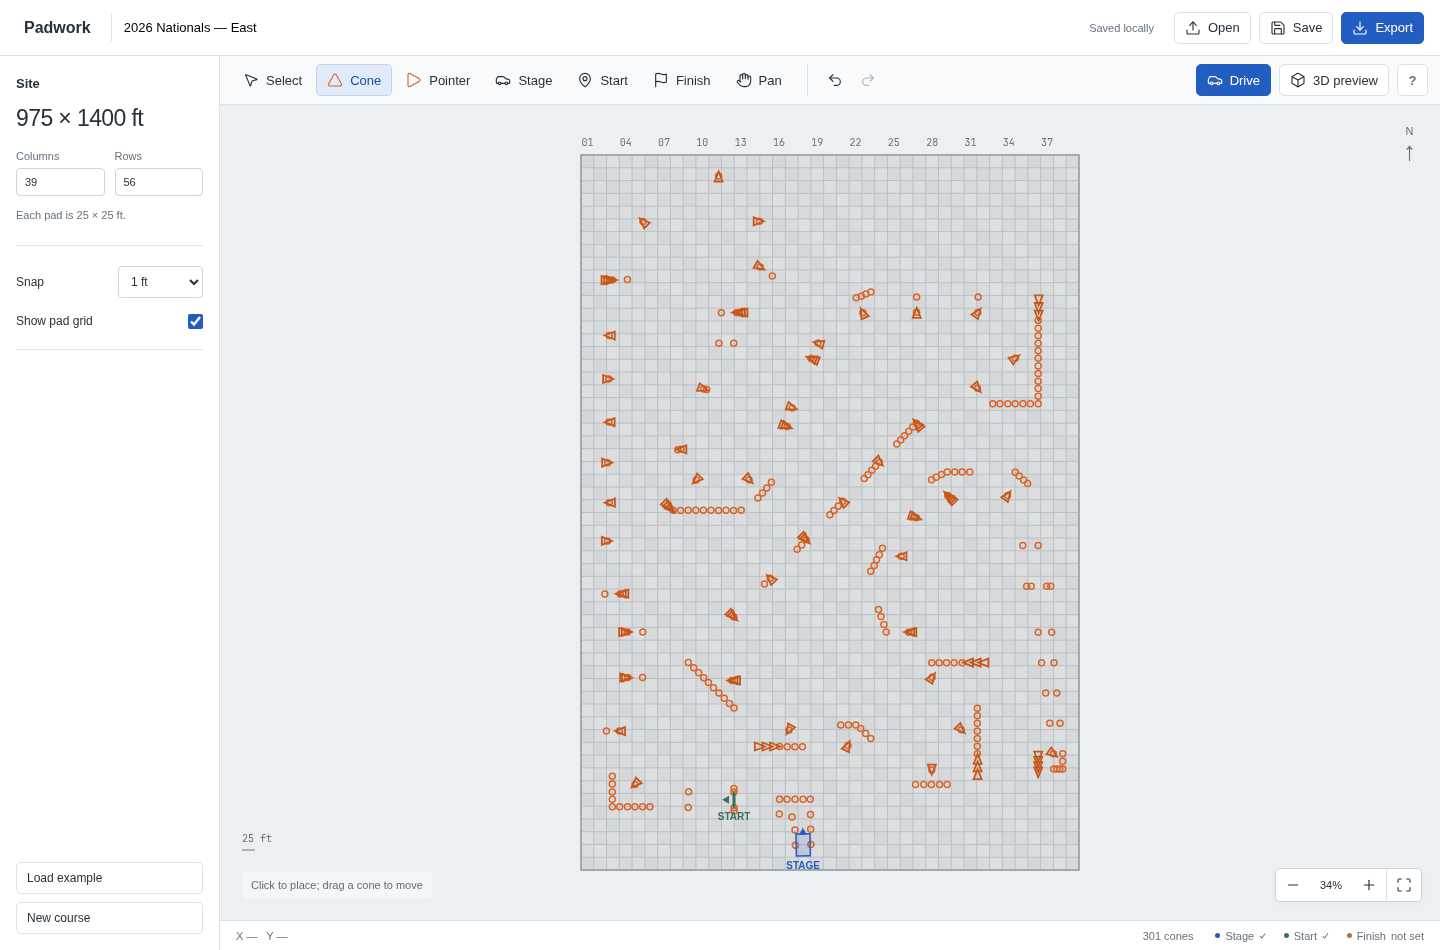
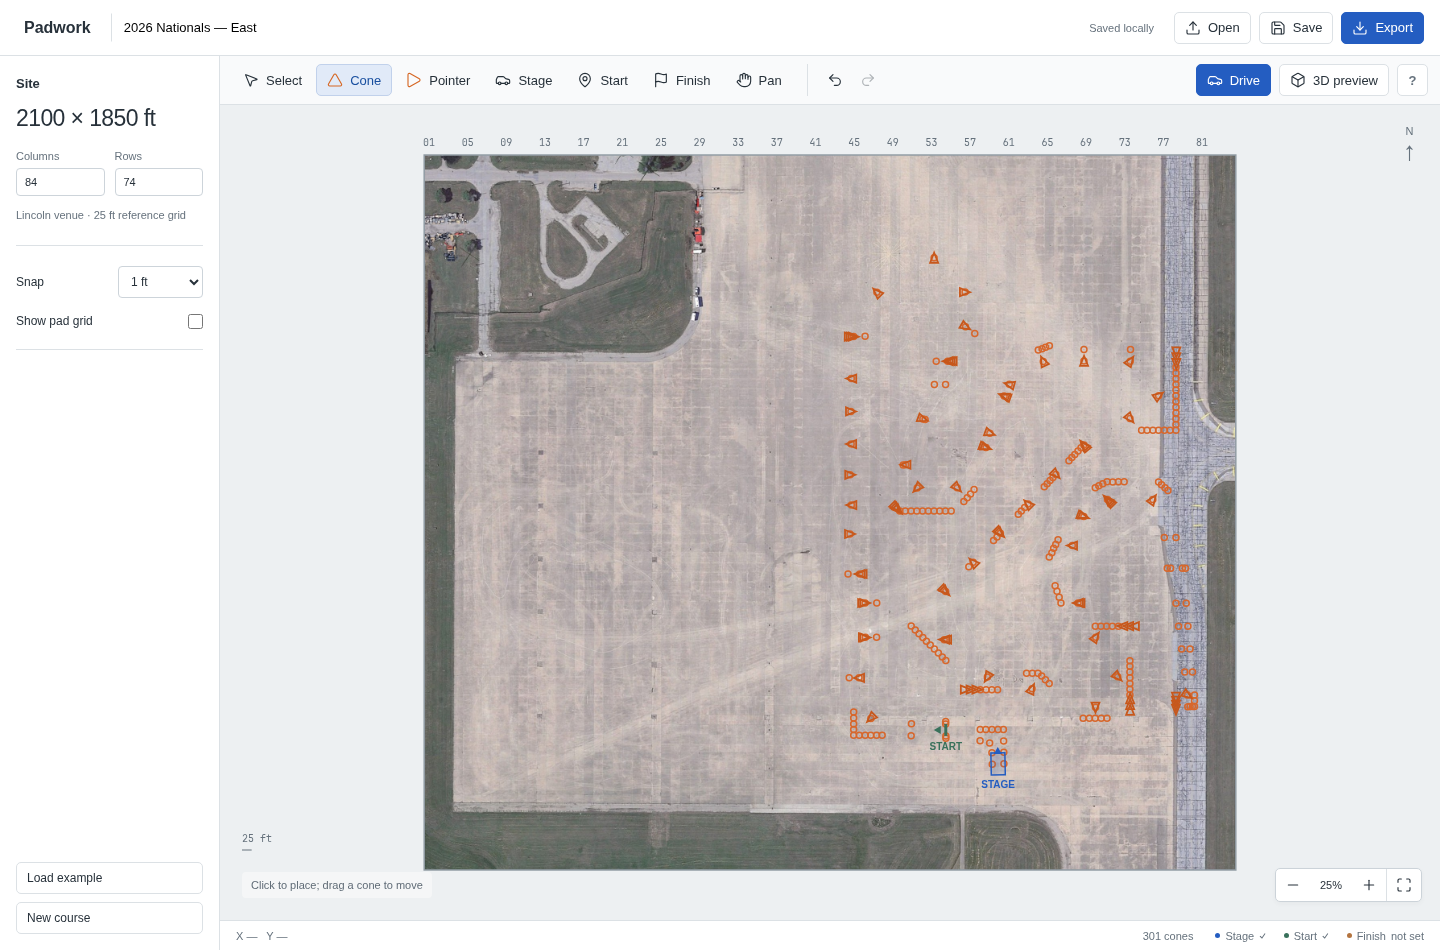
Keep Lincoln venue loaded and overlay the Nationals example

diff --git a/src/main.ts b/src/main.ts
@@ -4,12 +4,12 @@ import './style.css';
 import {rotatePoint,fitView} from './view';
 import {coneColor} from './cone-material';
 import {createIcons, MousePointer2, Triangle, Flag, MapPin, Hand, Undo2, Redo2, Download, Upload, Plus, Minus, Maximize, Box, X, Save, Grid2X2, Car} from 'lucide';
-import {PAD,FOOT,CONE_BASE,emptyLayout,demoLayout,validateLayout,snap,type Layout,type Item} from './model';
+import {PAD,FOOT,CONE_BASE,onVenue,demoLayout,validateLayout,snap,type Layout,type Item} from './model';
 import {buildExport,download} from './export';
 const $=<T extends HTMLElement=HTMLElement>(s:string)=>document.querySelector<T>(s)!;
 const icon=(name:string)=>`<i data-lucide="${name}"></i>`;
-let layout=emptyLayout();try{const stored=localStorage.getItem('padwork');if(stored)layout=validateLayout(JSON.parse(stored));}catch{}
-let tool='cone',selected:string|null=null,scale=5,ox=0,oy=0,snapStep=FOOT,grid=true;
+let layout=venueLayout(),restoreError='';try{const stored=localStorage.getItem('padwork');if(stored){const original=validateLayout(JSON.parse(stored));if(!original.venue)localStorage.setItem('padwork-legacy-backup',stored);layout=onVenue(original);}}catch(error){restoreError=error instanceof Error?error.message:'Could not restore the saved course.';}
+let tool='cone',selected:string|null=null,scale=5,ox=0,oy=0,snapStep=FOOT,grid=false;
 let history:string[]=[],future:string[]=[];
 $('#app').innerHTML=`<header>
   <a class="brand" href="${import.meta.env.BASE_URL}" aria-label="Padwork home">${icon('grid-2x2')}<span>Padwork</span></a>
@@ -19,9 +19,9 @@ $('#app').innerHTML=`<header>
 <div class="workspace">
   <aside class="left">
     <section class="site-settings"><h2>Site</h2><p id="site-size"></p><div class="two-fields"><label>Columns<input type="number" id="columns" min="4" max="160"></label><label>Rows<input type="number" id="rows" min="4" max="160"></label></div><p class="subtle"><span id="grid-description">Each pad is 25 × 25 ft.</span></p></section>
-    <section class="placement"><label class="setting">Snap<select id="snap"><option value="0">Off</option><option value="1" selected>1 ft</option><option value="5">5 ft</option><option value="25">25 ft</option></select></label><label class="setting">Show pad grid<input type="checkbox" id="grid" checked></label></section>
+    <section class="placement"><label class="setting">Snap<select id="snap"><option value="0">Off</option><option value="1" selected>1 ft</option><option value="5">5 ft</option><option value="25">25 ft</option></select></label><label class="setting">Show pad grid<input type="checkbox" id="grid"></label></section>
     <section id="inspector" hidden><div id="properties"></div></section>
-    <div class="sidebar-bottom"><button id="venue" title="Open the Lincoln Nationals mod venue">Load venue</button><button id="demo" title="2026 Solo Nationals East course">Load example</button><button id="new">New course</button></div>
+    <div class="sidebar-bottom"><button id="demo" title="2026 Solo Nationals East course">Load example</button><button id="new">New course</button></div>
   </aside>
   <main>
     <div class="toolbar"><div class="tools" role="toolbar" aria-label="Drawing tools">${[['select','mouse-pointer-2','Select','V'],['cone','triangle','Cone','C'],['pointer','triangle','Pointer','P'],['stage','car','Stage','G'],['start','map-pin','Start','S'],['finish','flag','Finish','F'],['pan','hand','Pan','H']].map(([id,ic,label,key])=>`<button data-tool="${id}" title="${label} (${key})" aria-label="${label}" aria-pressed="false">${icon(ic)}<span>${label}</span></button>`).join('')}</div><div class="history"><button id="undo" title="Undo (Ctrl+Z)" aria-label="Undo">${icon('undo-2')}</button><button id="redo" title="Redo (Ctrl+Shift+Z)" aria-label="Redo">${icon('redo-2')}</button></div><div class="view-actions"><button id="drive" class="primary" title="Drive course (WASD)">${icon('car')}<span>Drive</span></button><button id="preview" aria-label="3D preview" title="3D preview">${icon('box')}<span>3D preview</span></button><button id="help" aria-label="Keyboard shortcuts" title="Keyboard shortcuts">?</button></div></div>
@@ -39,7 +39,7 @@ const canvas=$<HTMLCanvasElement>('#map'),ctx=canvas.getContext('2d')!;
 let width=0,height=0,autoFit=true;
 const venueMap=new Image();venueMap.onload=()=>draw();
 function ensureVenueMap(){if(!venueMap.src)venueMap.src=venueURL('map.jpg');}
-if(layout.venue){ensureVenueMap();prepareVenue().then(()=>draw()).catch(error=>toast(error.message));}
+if(layout.venue){ensureVenueMap();canvas.setAttribute('aria-busy','true');prepareVenue().then(()=>{canvas.setAttribute('aria-busy','false');draw();}).catch(error=>{canvas.setAttribute('aria-busy','false');toast(error.message);});}
 function toast(message:string){$('#toast').textContent=message;$('#toast').classList.add('visible');setTimeout(()=>$('#toast').classList.remove('visible'),4000);}
 function remember(){history.push(JSON.stringify(layout));if(history.length>100)history.shift();future=[];}
 function persist(){try{localStorage.setItem('padwork',JSON.stringify(layout));$('#save-state').textContent='Saved locally';}catch{$('#save-state').textContent='Storage full — save a file';}}
@@ -47,6 +47,7 @@ function change(){persist();sync();draw();}
 function setTool(t:string){tool=t;document.querySelectorAll<HTMLElement>('[data-tool]').forEach(e=>{const active=e.dataset.tool===t;e.classList.toggle('active',active);e.setAttribute('aria-pressed',String(active));});$('#tool-hint').textContent=({cone:'Click to place; drag a cone to move',pointer:'Click to place; drag to move; R to rotate',stage:'Click to place staging; R to set driving direction',start:'Click to place the timing start',finish:'Click to place finish',select:'Select an object to move it',pan:'Drag to pan'} as Record<string,string>)[t];canvas.style.cursor=t==='pan'?'grab':t==='select'?'default':'crosshair';}
 function sync(){
  const imported=!!layout.venue;
+ $('#demo').title=imported?'Load the 2026 East course on this venue':'2026 Solo Nationals East course';
  if(imported)ensureVenueMap();
  for(const axis of ['columns','rows'])$<HTMLInputElement>('#'+axis).disabled=imported;
  $('#grid-description').textContent=imported?'Lincoln venue · 25 ft reference grid':'Each pad is 25 × 25 ft.';
@@ -114,7 +115,7 @@ function zoom(factor:number,p={x:width/2,y:height/2}){autoFit=false;const w=worl
 canvas.onwheel=e=>{e.preventDefault();zoom(Math.exp(-e.deltaY*.001),pos(e));};
 function rotate(){const i=layout.items.find(i=>i.id===selected);if(i){remember();i.angle=(i.angle+15)%360;change();}}
 function remove(){if(selected){remember();layout.items=layout.items.filter(i=>i.id!==selected);selected=null;change();}}
-function undo(redo=false){const from=redo?future:history,to=redo?history:future;const s=from.pop();if(s){to.push(JSON.stringify(layout));layout=JSON.parse(s);selected=null;change();if(autoFit)fit();}}
+function undo(redo=false){const from=redo?future:history,to=redo?history:future;const s=from.pop();if(s){to.push(JSON.stringify(layout));layout=onVenue(validateLayout(JSON.parse(s)));selected=null;change();if(autoFit)fit();}}
 window.onkeydown=e=>{if((e.target as HTMLElement).matches('input,select,textarea')||document.querySelector('dialog[open]'))return;if((e.ctrlKey||e.metaKey)&&e.key.toLowerCase()==='z'){e.preventDefault();undo(e.shiftKey);return;}if(e.code==='Space'){e.preventDefault();space=true;}if(e.key==='Delete'||e.key==='Backspace'){e.preventDefault();remove();}if(e.key.toLowerCase()==='r')rotate();const t=({v:'select',c:'cone',p:'pointer',g:'stage',s:'start',f:'finish',h:'pan'} as Record<string,string>)[e.key.toLowerCase()];if(t)setTool(t);};window.onkeyup=e=>{if(e.code==='Space')space=false;};window.onblur=()=>{space=false;drag=null;};
 document.querySelectorAll<HTMLElement>('[data-tool]').forEach(b=>b.onclick=()=>setTool(b.dataset.tool!));
 $('#zoom-in').onclick=()=>zoom(1.25);$('#zoom-out').onclick=()=>zoom(.8);$('#fit').onclick=fit;$('#undo').onclick=()=>undo();$('#redo').onclick=()=>undo(true);
@@ -125,9 +126,8 @@ $<HTMLInputElement>('#grid').onchange=e=>{grid=(e.target as HTMLInputElement).ch
 $('#help').onclick=()=>$<HTMLDialogElement>('#help-dialog').showModal();
 $('#close-help').onclick=()=>$<HTMLDialogElement>('#help-dialog').close();
 $('#save').onclick=()=>download(JSON.stringify(layout,null,2),'course.padwork.json','application/json');
-$('#open').onclick=()=>$<HTMLInputElement>('#file').click();$<HTMLInputElement>('#file').onchange=async e=>{const input=e.target as HTMLInputElement;try{const file=input.files?.[0];if(!file)return;if(file.size>5e6)throw Error('Layout file is too large.');const loaded=validateLayout(JSON.parse(await file.text()));if(loaded.venue)await prepareVenue();remember();layout=loaded;selected=null;change();fit();toast('Layout opened.');}catch(err){toast(err instanceof Error?err.message:'Could not open layout.');}input.value='';};
-$('#venue').onclick=async()=>{const button=$<HTMLButtonElement>('#venue');button.disabled=true;try{await prepareVenue();remember();layout=venueLayout();selected=null;grid=false;$<HTMLInputElement>('#grid').checked=false;ensureVenueMap();change();fit();toast('Lincoln venue loaded. Undo restores your previous course.');}catch(error){toast((error as Error).message);}finally{button.disabled=false;}};
-$('#demo').onclick=()=>{remember();layout=demoLayout();selected=null;change();fit();toast('Example loaded. Undo restores your previous course.');};$('#new').onclick=()=>{remember();layout=emptyLayout();selected=null;change();fit();};
+$('#open').onclick=()=>$<HTMLInputElement>('#file').click();$<HTMLInputElement>('#file').onchange=async e=>{const input=e.target as HTMLInputElement;try{const file=input.files?.[0];if(!file)return;if(file.size>5e6)throw Error('Layout file is too large.');const loaded=onVenue(validateLayout(JSON.parse(await file.text())));if(loaded.venue)await prepareVenue();remember();layout=loaded;selected=null;change();fit();toast('Layout opened.');}catch(err){toast(err instanceof Error?err.message:'Could not open layout.');}input.value='';};
+$('#demo').onclick=async()=>{const button=$<HTMLButtonElement>('#demo');button.disabled=true;const previous=layout;try{if(previous.venue)await prepareVenue();if(layout!==previous)return;remember();layout=demoLayout(previous.venue);selected=null;change();fit();toast(layout.venue?'Example loaded on Lincoln. Undo restores your previous course.':'Example loaded. Undo restores your previous course.');}catch(error){toast((error as Error).message);}finally{button.disabled=false;}};$('#new').onclick=()=>{remember();layout=venueLayout();selected=null;change();fit();};
 $('#export').onclick=()=>{if(['stage','start','finish'].some(k=>!layout.items.some(i=>i.kind===k))){toast('Place staging, start, and finish before exporting.');return;}$<HTMLDialogElement>('#export-dialog').showModal();};$('#close-export').onclick=()=>$<HTMLDialogElement>('#export-dialog').close();$('#download-package').onclick=async()=>{const button=$<HTMLButtonElement>('#download-package');button.disabled=true;button.textContent='Preparing ZIP…';const snapshot=structuredClone(layout);try{const model=snapshot.venue?await venueModel():undefined;const {slug,zip}=buildExport(snapshot,model);download(new Uint8Array(zip).buffer,slug+'-source.zip');toast('Source package downloaded.');}catch(e){toast((e as Error).message);}finally{button.disabled=false;button.textContent='Download ZIP';}};
 $('#drive').onclick=async ()=>{
  const button=$<HTMLButtonElement>('#drive');button.disabled=true;
@@ -146,4 +146,4 @@ $('#preview').onclick=async ()=>{
  cleanupPreview=()=>{cancelAnimationFrame(frame);resize.disconnect();controls.dispose();disposeScene(scene);renderer.dispose();host.replaceChildren();};
  }catch(error){loadingRenderer?.dispose();if(request!==previewRequest)return;host.textContent=error instanceof Error?error.message:'Could not load 3D preview.';cleanupPreview=()=>host.replaceChildren();}
 };$('#close-preview').onclick=()=>$<HTMLDialogElement>('#preview-dialog').close();$<HTMLDialogElement>('#preview-dialog').onclose=()=>{previewRequest++;cleanupPreview();};
-sync();setTool(tool);
+if(!restoreError)persist();sync();setTool(tool);if(restoreError)toast(restoreError+' Original saved data has been kept.');

diff --git a/tests/venue.test.ts b/tests/venue.test.ts
@@ -4,7 +4,7 @@ import {readFileSync} from 'node:fs';
 import {gunzipSync,strFromU8} from 'fflate';
 import {RoadSurface} from '../src/road-surface.ts';
 import {venueLayout,VENUE} from '../src/venue.ts';
-import {validateLayout} from '../src/model.ts';
+import {validateLayout,demoLayout,FOOT,PAD,EXAMPLE_VENUE_OFFSET,onVenue} from '../src/model.ts';
 import {DrivingSimulation,released} from '../src/driving.ts';
 import {buildExport} from '../src/export.ts';
 const road=new RoadSurface(gunzipSync(readFileSync(new URL('../public/venue/road.bin.gz',import.meta.url))));
@@ -41,4 +41,29 @@ test('venue source export contains venue GLB, elevations and correct surface key
  const script=strFromU8(bundle.files['build_track.py']);assert.match(script,/bpy.ops.import_scene.gltf/);assert.match(script,/obj.location=\(x,-z,elevation\)/);
  const elevations=JSON.parse(strFromU8(bundle.files['elevations.json']));assert.equal(elevations['lincoln-stage'],road.height(480,480));
  assert.match(strFromU8(bundle.files[`${bundle.slug}/data/surfaces.ini`]),/KEY=PROAD/);
+});
+
+test('venue example preserves every object and calibrated distance with a single translation',()=>{
+ const flat=demoLayout(),overlay=demoLayout('lincoln');
+ assert.equal(overlay.venue,'lincoln');assert.equal(overlay.columns,VENUE.columns);assert.equal(overlay.rows,VENUE.rows);
+ assert.equal(overlay.items.length,flat.items.length);assert.equal(overlay.items.filter(i=>i.kind==='stage').length,1);
+ for(let i=0;i<flat.items.length;i++){
+  const original=flat.items[i],moved=overlay.items[i];
+  assert.deepEqual({...moved,x:original.x,z:original.z},original);
+  assert.ok(Math.abs(moved.x-original.x-EXAMPLE_VENUE_OFFSET.x)<1e-10);
+  assert.ok(Math.abs(moved.z-original.z-EXAMPLE_VENUE_OFFSET.z)<1e-10);
+  assert.notEqual(road.height(moved.x,moved.z),null,`Object ${moved.id} must stay on the venue surface`);
+ }
+ const cone=(n:number)=>overlay.items.find(i=>i.id===`nats-east-2026-cone-${n}`)!;
+ assert.ok(Math.abs(Math.hypot(cone(138).x-cone(139).x,cone(138).z-cone(139).z)-75*FOOT)<1e-10);
+ for(const value of [cone(102).x,cone(102).z])assert.ok(Math.abs(value/PAD-Math.round(value/PAD))<1e-10);
+ assert.doesNotThrow(()=>new DrivingSimulation(overlay,undefined,road));
+ assert.equal(demoLayout().venue,undefined);assert.deepEqual(demoLayout(),flat);
+});
+
+test('legacy courses migrate onto permanent venue without scaling, and migration is idempotent',()=>{
+ const source=demoLayout();const migrated=onVenue(source);assert.deepEqual(migrated,demoLayout('lincoln'));assert.deepEqual(onVenue(migrated),migrated);assert.equal(source.venue,undefined);
+ const custom={version:1 as const,name:'Custom',columns:24,rows:16,items:[{id:'a',kind:'cone' as const,x:10,z:20,angle:30},{id:'b',kind:'cone' as const,x:20,z:40,angle:75}]};
+ const result=onVenue(custom);assert.equal(result.venue,'lincoln');assert.equal(result.items[1].x-result.items[0].x,10);assert.ok(Math.abs(result.items[1].z-result.items[0].z-20)<1e-10);assert.equal(result.items[0].angle,30);
+ assert.throws(()=>onVenue({...custom,columns:160,items:[{...custom.items[0],x:1000}]}),/too large/);
 });

diff --git a/src/model.ts b/src/model.ts
@@ -19,6 +19,27 @@ export function validateLayout(value:unknown):Layout {
  return structuredClone(v);
 }
 export function snap(value:number,step:number){return step?Math.round(value/step)*step:value;}
-export function demoLayout():Layout {
- return validateLayout(nationalsEast);
+// Whole-pad translation places the PDF course on the east apron without rescaling
+// or rotating it. This is an approximate venue placement, not a surveyed alignment.
+export const EXAMPLE_VENUE_OFFSET={x:42*PAD,z:9*PAD};
+export function demoLayout(venue?:Layout['venue']):Layout {
+ const example=validateLayout(nationalsEast);
+ if(venue==='lincoln'){
+  example.venue=venue;example.columns=venueMetadata.columns;example.rows=venueMetadata.rows;
+  example.items=example.items.map(item=>({...item,x:item.x+EXAMPLE_VENUE_OFFSET.x,z:item.z+EXAMPLE_VENUE_OFFSET.z}));
+ }
+ return validateLayout(example);
+}
+
+// Upgrade legacy flat layouts into the permanent venue without distorting courses.
+export function onVenue(layout:Layout):Layout {
+ if(layout.venue==='lincoln')return structuredClone(layout);
+ const isNationals=layout.items.some(item=>item.id.startsWith('nats-east-2026-'));
+ const offset=isNationals?EXAMPLE_VENUE_OFFSET:{
+  x:Math.max(0,Math.round((venueMetadata.columns-layout.columns)/2))*PAD,
+  z:Math.max(0,Math.round((venueMetadata.rows-layout.rows)/2))*PAD,
+ };
+ const migrated={...layout,venue:'lincoln' as const,columns:venueMetadata.columns,rows:venueMetadata.rows,items:layout.items.map(item=>({...item,x:item.x+offset.x,z:item.z+offset.z}))};
+ if(migrated.items.some(item=>item.x>migrated.columns*PAD||item.z>migrated.rows*PAD))throw Error('This course is too large for the Lincoln venue.');
+ return validateLayout(migrated);
 }

diff --git a/README.md b/README.md
@@ -15,11 +15,11 @@ npm ci
 npm run dev
 ```
 
-Open **http://localhost:5173**. Choose **Load example**, then **Drive** to try the Nationals course, or start placing cones to create your own.
+Open **http://localhost:5173**. Choose **Load example**, then **Drive** to try the Nationals course, or start placing cones on the Lincoln venue to create your own.
 
 ## Build a course
 
-- Resize the site using tiles of **25 × 25 feet** (7.62 × 7.62 m).
+- The Lincoln venue is always loaded. Its fixed work area has an optional **25 × 25-foot** (7.62 × 7.62 m) reference grid.
 - Place **18-inch orange cones** or sideways pointer cones, using the Nationals mod’s original mesh and worn orange texture.
 - Drag existing cones to move them. Rotate pointers to show the direction of travel.
 - Set **staging** for the car spawn, **start** for the timing line, and **finish** to end the run.
@@ -27,7 +27,7 @@ Open **http://localhost:5173**. Choose **Load example**, then **Drive** to try t
 - Inspect the course in an orbitable **3D preview**. Select a cone first to inspect it close up.
 - Undo/redo edits, save a JSON layout, or reopen one later. The editor also autosaves in your browser.
 
-The default site is 600 × 400 feet. Cone bases are approximately 0.2914 m squares; locator rings in the editor do not change their physical size. Pointer cones rest on their base edge and tip.
+The work area is 2100 × 1850 feet. Cone bases are approximately 0.2914 m squares; locator rings in the editor do not change their physical size. Pointer cones rest on their base edge and tip.
 
 ### Editor shortcuts
 
@@ -74,12 +74,12 @@ Opening setup pauses driving. Adjust the sliders, then click **Resume** to try t
 
 **Load example** includes a trace of the supplied 2026 Nationals East course:
 
-- **217 upright cones and 84 pointer cones**, on a 975 × 1400-foot site.
-- Cones **138–139 establish the exact 75-foot scale**; cone **102 anchors a four-way pad joint**.
+- **217 upright cones and 84 pointer cones**, traced in a 975 × 1400-foot area and placed on the Lincoln east apron.
+- Cones **138–139 establish the exact 75-foot scale**; cone **102 anchors a four-way joint in the original trace grid**.
 - Staging sits between cones **101 and 102**, facing the lane between 103 and 104.
 - The course retains the PDF orientation without rotation. Other traced positions are approximate.
 
-Labels, route lines, and the finish marker are omitted. **Add a finish before exporting.** The pad site is a reconstruction, not a surveyed venue model. See the [calibration notes](data/README.md).
+Labels, route lines, and the finish marker are omitted. **Add a finish before exporting.** Placement of the PDF trace on the venue is approximate. See the [calibration notes](data/README.md).
 
 ## Nationals mod assets
 
@@ -87,17 +87,17 @@ Upright and pointer cones use the original geometry and `ConePaintTexture` from 
 
 ![Original Nationals upright and pointer cone assets in the browser renderer](docs/screenshots/nats-cones.png)
 
-The templates preserve the original UVs and normals, with height normalized to exactly 18 inches. Choose **Load venue** to use the original mod’s road, grass, trees, and surrounding scenery, or keep using a configurable flat site. See [asset credits](ASSET_CREDITS.md) and [integration notes](docs/nats-mod-assets.md).
+The templates preserve the original UVs and normals, with height normalized to exactly 18 inches. The original mod’s road, grass, trees, and surrounding scenery form the permanent base. See [asset credits](ASSET_CREDITS.md) and [integration notes](docs/nats-mod-assets.md).
 
 ## Lincoln venue
 
-**Load venue** opens the imported Lincoln site with a staging point and no old course cones. Place your own cones and timing gates on the overhead venue image, then choose **Drive** or **3D preview**. Loading the venue is undoable; **New course** returns to a flat site.
+**Lincoln is always loaded**, including when opening the app or starting a new course. Click **Load example** to place the 2026 East course on the east apron, or place your own cones and timing gates. **New course** clears course objects and restores the default staging point while keeping the venue. Example loading and clearing the course are undoable.
 
 ![Imported Lincoln Nationals venue in the editor](docs/screenshots/venue-editor.png)
 
 The import includes all nine shared venue models, including the paved lot, terrain, trees, fences, toilets, and nearby buildings. Original dimensions and elevations are retained. Cones, timing markers, and the driver's camera follow the source road mesh. The editor work area is fixed at 2100 × 1850 ft; scenery extends beyond it.
 
-The optional 25-foot grid is a measuring overlay, not a surveyed alignment of pavement joints. The 2026 PDF example remains separate: it has not been aligned to the imported venue. The tester stops at the source driving-surface boundary; scenery is visual and does not have separate browser collision physics.
+The optional 25-foot grid is a measuring overlay, not a surveyed alignment of pavement joints. The 2026 example is translated onto the east apron without changing scale, shape, or headings. Its venue placement is approximate, not a surveyed alignment. Loading the example replaces course objects and is undoable. Older flat JSON layouts are translated onto Lincoln without scaling or rotating their objects; the original browser save is retained under `padwork-legacy-backup` during migration. The tester stops at the source driving-surface boundary; scenery is visual and does not have separate browser collision physics.
 
 The first 3D load downloads about **41 MB**. Textures are resized, and Assetto Corsa shaders are approximated for Three.js/glTF. Export includes the same converted venue in `lincoln.glb`, placed at the same coordinates, plus course-object elevations. Blender extracts venue textures when generating the FBX; ksEditor material setup and in-game validation remain required.
 

diff --git a/docs/nats-mod-assets.md b/docs/nats-mod-assets.md
@@ -47,7 +47,7 @@ The browser and Blender export share positions, normals, UVs, and texture. The s
 
 All nine shared models from `models_2021_east.ini` are included in `public/venue/lincoln.glb.gz`; the original year's course and timing files are excluded. The tree model receives the INI's `143,0,-249` placement. Node matrices are applied before conversion. All geometry then receives the same translation: editor X = source X + 22.86 m; editor Z = source Z + 518.16 m. Height, orientation, and scale are retained. This is a translated converted venue, not a drop-in overlay for an existing original KN5 installation.
 
-The editor uses an 84 × 74 pad bounding rectangle around the main lot. The top-down image is rendered from that same model, with north toward decreasing Z. The grid is an optional spacing guide and does not assert joint alignment. The previous 2026 PDF trace remains unchanged and separate.
+The editor uses an 84 × 74 pad bounding rectangle around the main lot. The top-down image is rendered from that same model, with north toward decreasing Z. The grid is an optional spacing guide and does not assert joint alignment. Loading the 2026 example while on the venue translates its objects by +320.04 m X and +68.58 m Z (42 and 9 pads). No scaling or rotation is applied; the 75-foot calibration and relative positions are preserved. This is an approximate east-apron placement, not surveyed joint alignment. The app always uses Lincoln. The original flat example coordinates remain in the source fixture for calibration; loading translates a fresh copy. Legacy flat saved layouts are migrated with a single translation (the example offset for Nationals objects, otherwise centered in whole-pad increments); files too large for the venue are rejected instead of clipped.
 
 `road.bin.gz` preserves the road mesh triangles in editor coordinates. The runtime uses spatially indexed barycentric height queries for object placement and car height. Car footprint samples must remain on that source mesh. This models the source driving surface, not image-based pavement/grass classification. Scenery collisions and suspension physics are not simulated.
 
